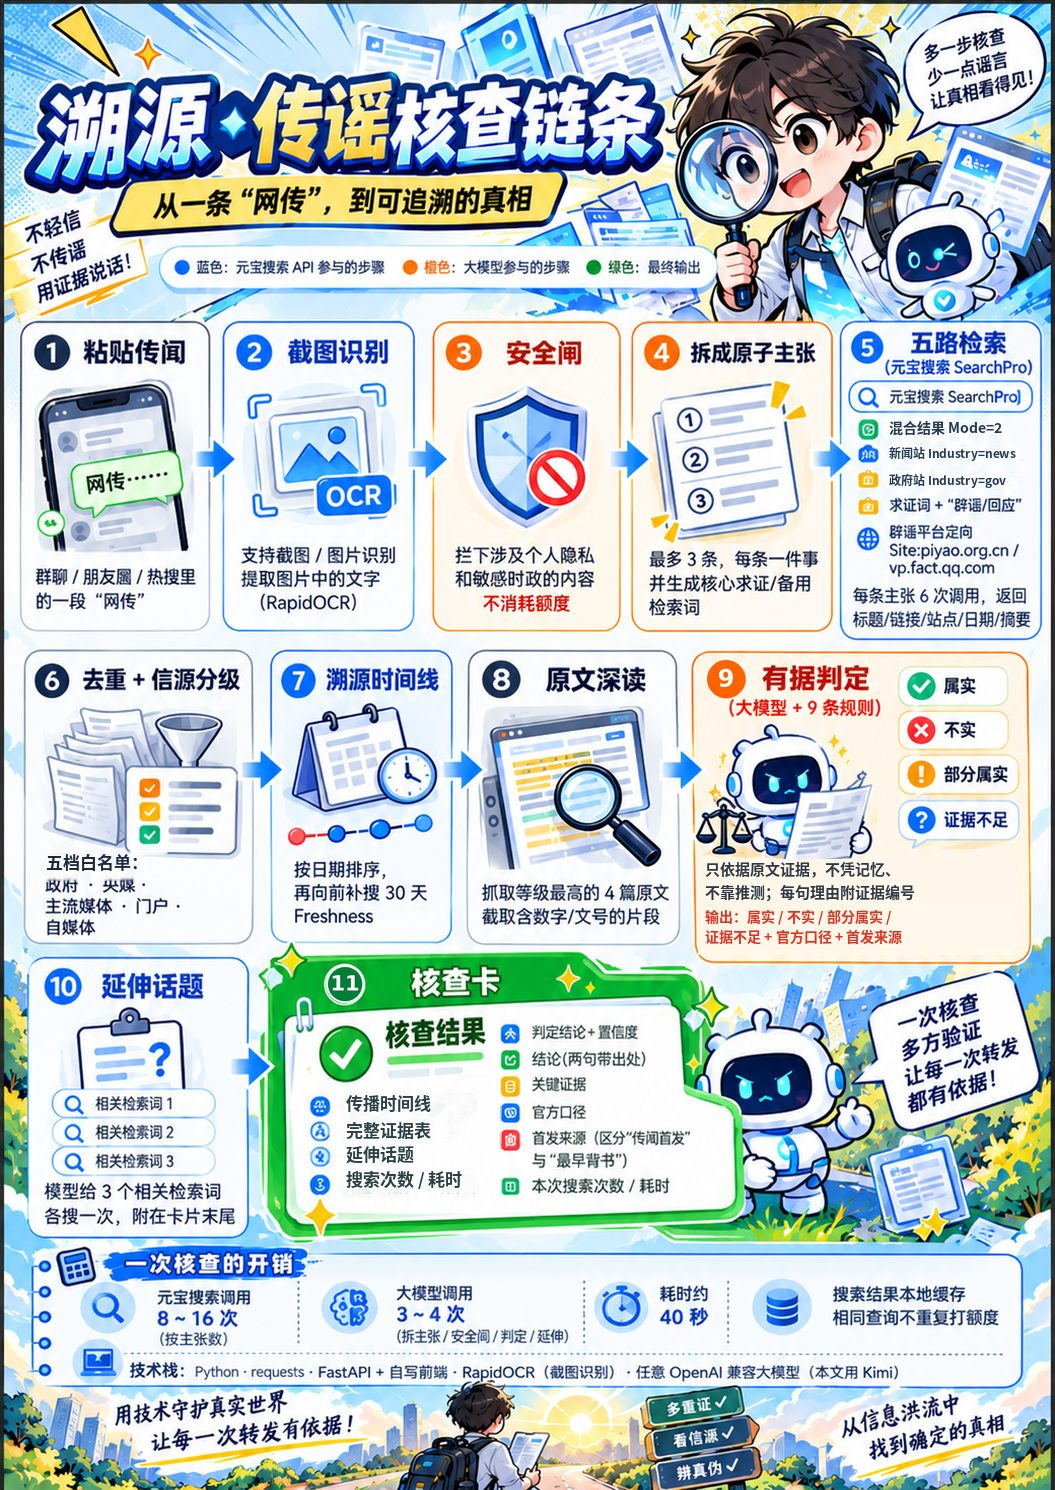
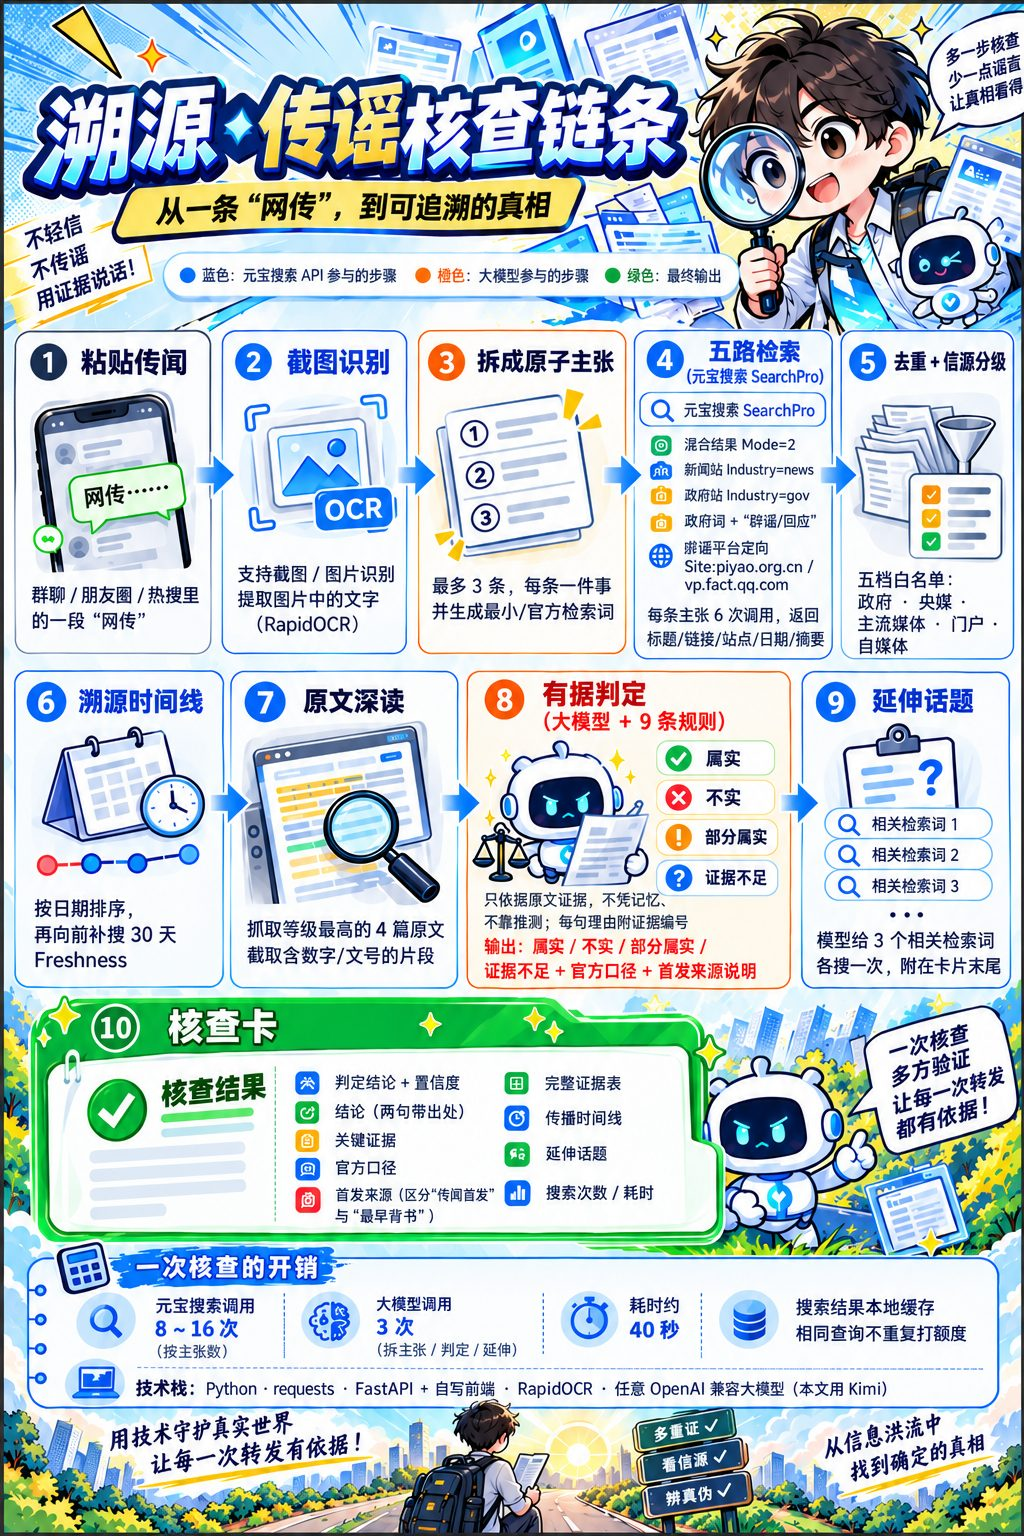
更新宣传海报（十步版）

diff --git a/web/index.html b/web/index.html
@@ -205,7 +205,7 @@
   <section class="about" id="about" aria-labelledby="aboutTitle">
     <div class="wrap about__grid">
       <figure class="about__poster" data-reveal>
-        <img src="/static/assets/poster.jpg" alt="溯源 项目海报" loading="lazy" width="1055" height="1490">
+        <img src="/static/assets/poster.jpg" alt="溯源 项目海报" loading="lazy" width="1024" height="1536">
       </figure>
       <div class="about__body">
         <header class="sec-head" data-reveal>
